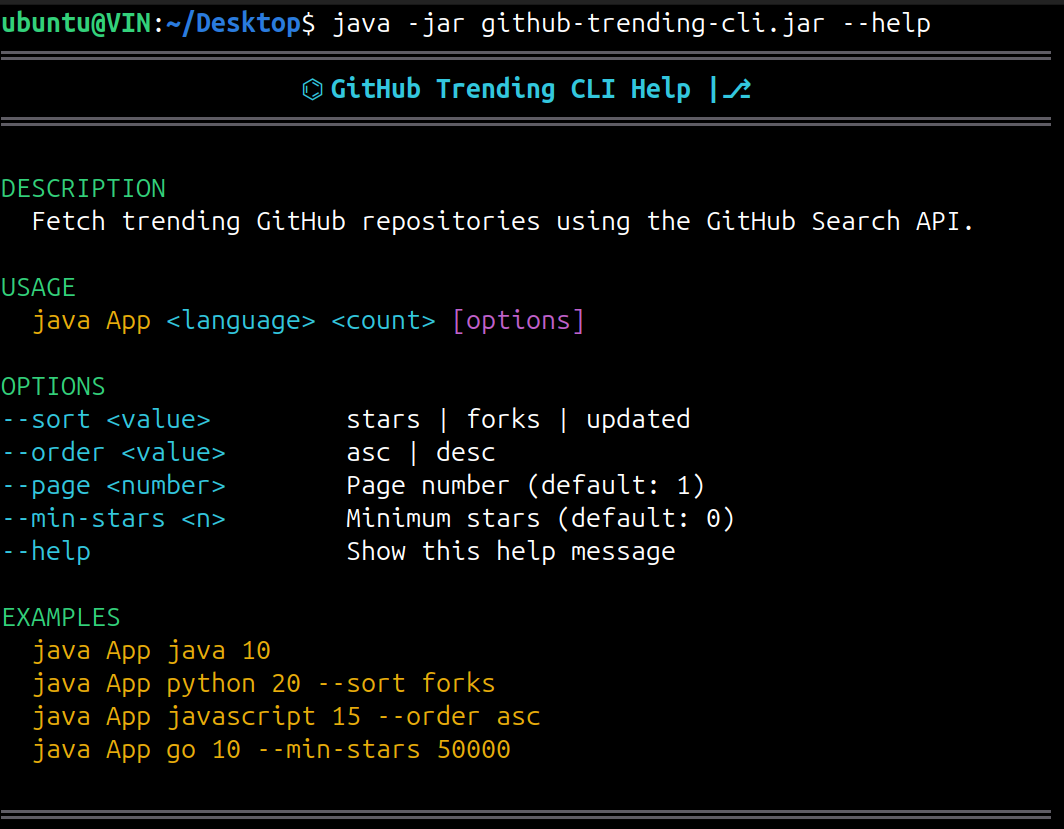
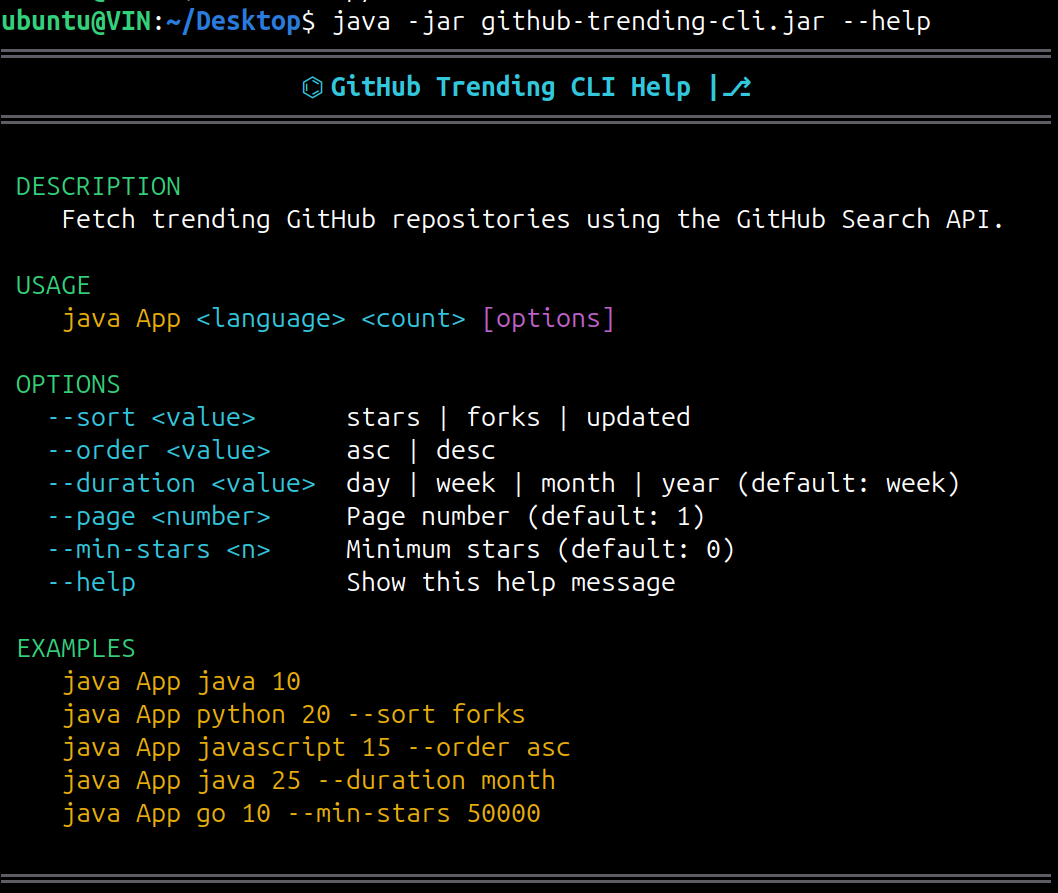
Modified package and documentation.

diff --git a/src/main/java/com/githubtrends/ui/HelpPrinter.java b/src/main/java/com/githubtrends/ui/HelpPrinter.java
@@ -21,12 +21,12 @@ public class HelpPrinter {
     System.out.println(AnsiColors.BRIGHT_BLACK + SEPARATOR + AnsiColors.RESET);
     System.out.println();
 
-    System.out.println(AnsiColors.BRIGHT_GREEN + "DESCRIPTION" + AnsiColors.RESET);
-    System.out.println("  Fetch trending GitHub repositories using the GitHub Search API.");
+    System.out.println(AnsiColors.BRIGHT_GREEN + " DESCRIPTION" + AnsiColors.RESET);
+    System.out.println("    Fetch trending GitHub repositories using the GitHub Search API.");
     System.out.println();
 
-    System.out.println(AnsiColors.BRIGHT_GREEN + "USAGE" + AnsiColors.RESET);
-    System.out.println("  "
+    System.out.println(AnsiColors.BRIGHT_GREEN + " USAGE" + AnsiColors.RESET);
+    System.out.println("    "
         + AnsiColors.BRIGHT_YELLOW + "java App"
         + AnsiColors.RESET + " "
         + AnsiColors.BRIGHT_CYAN + "<language>"
@@ -37,21 +37,23 @@ public class HelpPrinter {
         + AnsiColors.RESET);
     System.out.println();
 
-    System.out.println(AnsiColors.BRIGHT_GREEN + "OPTIONS" + AnsiColors.RESET);
+    System.out.println(AnsiColors.BRIGHT_GREEN + " OPTIONS" + AnsiColors.RESET);
 
-    printOption("--sort <value>", "stars | forks | updated");
-    printOption("--order <value>", "asc | desc");
-    printOption("--page <number>", "Page number (default: 1)");
-    printOption("--min-stars <n>", "Minimum stars (default: 0)");
-    printOption("--help", "Show this help message");
+    printOption("   --sort <value>", "stars | forks | updated");
+    printOption("   --order <value>", "asc | desc");
+    printOption("   --duration <value>", "day | week | month | year (default: week)");
+    printOption("   --page <number>", "Page number (default: 1)");
+    printOption("   --min-stars <n>", "Minimum stars (default: 0)");
+    printOption("   --help", "Show this help message");
 
     System.out.println();
 
-    System.out.println(AnsiColors.BRIGHT_GREEN + "EXAMPLES" + AnsiColors.RESET);
+    System.out.println(AnsiColors.BRIGHT_GREEN + " EXAMPLES" + AnsiColors.RESET);
 
     printExample("java App java 10");
     printExample("java App python 20 --sort forks");
     printExample("java App javascript 15 --order asc");
+    printExample("java App java 25 --duration month");
     printExample("java App go 10 --min-stars 50000");
 
     System.out.println();
@@ -63,7 +65,7 @@ public class HelpPrinter {
   }
 
   private static void printExample(String example) {
-    System.out.println("  " + AnsiColors.BRIGHT_YELLOW + example + AnsiColors.RESET);
+    System.out.println("    " + AnsiColors.BRIGHT_YELLOW + example + AnsiColors.RESET);
   }
 
   private HelpPrinter() {

diff --git a/src/main/java/com/githubtrends/App.java b/src/main/java/com/githubtrends/App.java
@@ -31,7 +31,7 @@ public class App {
                     + ", Count=" + cliArguments.getCount()
                     + ", Sort=" + cliArguments.getSort()
                     + ", Order=" + cliArguments.getOrder()
-                    + ", Duration= " + cliArguments.getDuration()
+                    + ", Duration=" + cliArguments.getDuration()
                     + ", Page=" + cliArguments.getPage()
                     + ", MinStars=" + cliArguments.getMinimumStars());
 
@@ -52,6 +52,11 @@ public class App {
                     cliArguments.getMinimumStars());
             LOGGER.info("Filtered down to " + filteredRepositories.size() + " repositories.");
 
+            if (filteredRepositories.isEmpty()) {
+                System.out.println("No repositories found.");
+                return;
+            }
+            
             RepositoryPrinter.printRepositories(filteredRepositories);
             LOGGER.info("Application finished successfully.");
         }

diff --git a/Readme.md b/Readme.md
@@ -4,7 +4,7 @@
 ![Java](https://img.shields.io/badge/Java-21-orange)
 ![Maven](https://img.shields.io/badge/Maven-3.9+-red)
 ![License](https://img.shields.io/badge/License-MIT-green)
-[![Release](https://img.shields.io/github/v/release/Vinyas24/Github-Trending-CLI)](https://github.com/Vinyas24/Github-Trending-CLI/releases/tag/v2.0.0)
+[![Release](https://img.shields.io/github/v/release/Vinyas24/Github-Trending-CLI)](https://github.com/Vinyas24/Github-Trending-CLI/releases/latest)
 
 A Java-based Command Line Interface (CLI) application that fetches trending GitHub repositories using the GitHub Search API. It supports filtering, sorting, pagination, and customizable search options through a clean and user-friendly terminal interface.
 
@@ -15,6 +15,7 @@ The application allows users to search repositories by programming language and 
 ## ✨ Features
 
 - 🔍 Search repositories by programming language
+- 📅 Filter repositories by creation date (day, week, month, year)
 - ⭐ Sort by stars, forks, or last updated
 - 📈 Support ascending and descending order
 - 📄 Pagination support
@@ -115,6 +116,7 @@ java -jar github-trending-cli.jar java 10
 |---------|-------------|----------|
 | `--sort` | stars, forks, updated | stars |
 | `--order` | asc, desc | desc |
+| `--duration` | day, week, month, year | week |
 | `--page` | Page number | 1 |
 | `--min-stars` | Minimum repository stars | 0 |
 | `--help` | Show help information | - |
@@ -153,10 +155,16 @@ Repositories with at least 50,000 stars
 java -jar github-trending-cli.jar java 100 --min-stars 50000
 ```
 
+Repositories created this month
+
+```bash
+java -jar github-trending-cli.jar java 20 --duration month
+```
+
 Combine multiple options
 
 ```bash
-java -jar github-trending-cli.jar java 20 --sort stars --order desc --page 2 --min-stars 10000
+java -jar github-trending-cli.jar java 20 --sort stars --order desc --duration month --page 2 --min-stars 10000
 ```
 
 Display help
@@ -192,6 +200,7 @@ Examples:
 - Invalid sort option
 - Invalid order option
 - Invalid page number
+- Invalid duration value
 - Invalid minimum stars value
 - Unknown CLI flags
 - GitHub API rate limit exceeded
@@ -205,7 +214,7 @@ Examples:
 The project follows clean object-oriented design principles.
 
 - Builder Pattern for GitHub API query construction
-- Dedicated CLI argument parser
+- Dedicated CLI argument parser with validation
 - Service layer for repository filtering
 - Separate UI layer for formatted terminal output
 - Custom exception hierarchy
@@ -218,7 +227,7 @@ The project follows clean object-oriented design principles.
 - GitHub Personal Access Token support
 - Repository topics filter
 - Export results to JSON/CSV
-- Logging
+- Search by organization or user
 - Docker support
 - Interactive mode
 